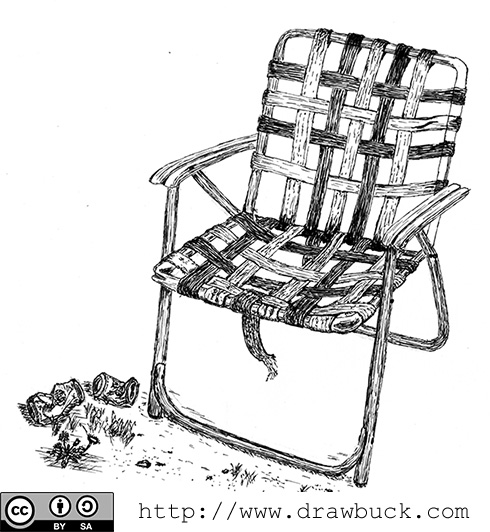
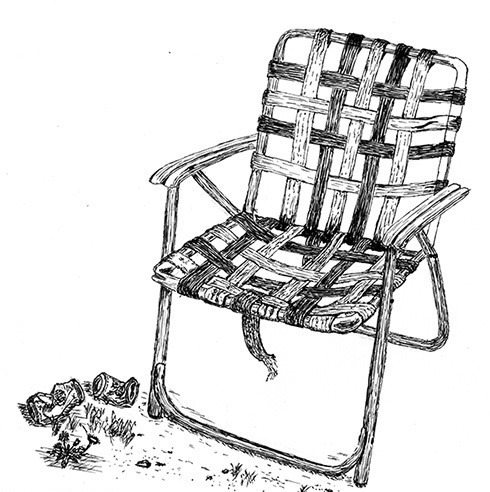
gisted up the examples

diff --git a/index.html b/index.html
@@ -4,7 +4,7 @@
 	<title>Lawnchair</title>
 	<style type="text/css" media="screen">
 		body {
-			background:url(lawn-chair.jpg) 375px 30px no-repeat;
+			background:url(lawn-chair.jpg) 375px 0px no-repeat;
 		}
 		h1, h2, p, ul {
 /*			background:#333;
@@ -15,7 +15,8 @@
 <body>
 
 <h1>Lawnchair</h1>
-<p>Sorta like a couch except smaller and outside. Also, a client side JSON document store.</p>
+<p>Sorta like a couch except smaller and outside. Also, a client side JSON document store. </p>
+<p>Perfect for a mobile web apps that need a lightweight, simple and elegent persistence solution. </p>
 
 <h2>Features</h2>
 <ul>
@@ -27,105 +28,52 @@
 	<li>searching and therefore finding of objects</li>
 </ul>
 
-<h3>Examples</h3>
+<h3>Example usage</h3>
 
-<p>In the spirit of showing rather than telling.</p>
+<p>Everything you need to know about:</p>
+
+<ul>
+	<li>Initializing</li>
+	<li>Savng</li>
+	<li>Retrieving</li>
+	<li>Removing</li>
+	<li>Iterating</li>
+</ul>
+<p></p>
 
 <h4>Initialize a store</h4>
 
 <p>Create a store. You can create as many as you like. If it doesn't exist Lawnchair creates a new store, otherwise, it just loads the store you name. It might be helpful to consider a store to be something akin to an array.</p>
 
-	var people = new Lawnchair('people');
+<script src="http://gist.github.com/240460.js?file=init.js"></script>	
 
 <h4>Saving JSON documents</h4>
 
 <p>Lawnchair stores JSON objects specifically. It assumes that each object has a property called <em>key</em>. Documents with a key that does not exist, or without a key, in the store are inserted into the store. Documents with a key that does exist in the store are simply updated. Lawnchair will generate a unique key for you if you don't supply one.</p>
 
-	// Saving a document
-	var me = {name:'brian'};
-	people.save(me);
-
-
-	// Saving a document async
-	people.save({name:'frank'}, function(r) {
-		console.log(r);
-	});
-
-
-	// Specifying your own key
-	people.save({key:'whatever', name:'dracula'});
+<script src="http://gist.github.com/240460.js?file=save.js"></script>
 
 
 <h4>Retrieving documents</h4>
 
 <p>Your new friend Lawnchair isn't going to block you. Anything that could potentially be time consuming will be asynchronous. The only problem with async style coding is typing the word <em>function</em> all the time. Lawnchair has a nice terse shorthand syntax for that too.</p>
 
-	// Get that document
-	people.get(me.key, function(r){
-		console.log(r);
-	});
-		
-
-	// Returns all documents as an array to a callback
-	people.all(function(r){
-		console.log(r);
-	});
-
-
-	// List all with shortcut syntax
-	people.all('console.log(r)');
+<script src="http://gist.github.com/240460.js?file=get.js"></script>
 
 <h4>Removing documents</h4>	
 
-	// Remove a document directly
-	people.get(me.key, function(r){
-		people.remove(me);
-	});
-
-	// Remove a document by key
-	people.save({key:'die', name:'duder'});
-	people.remove('die');
-	
-	// Destroy all documents
-	people.nuke();
+<script src="http://gist.github.com/240460.js?file=remove.js"></script>
 
 
-<h2>Iterators</h2>
+<h4>Iterators</h4>
 
-<p>Lawnchair knows you'll likely be iterating over those documents and even provides helpers for searching, thus finding, further augmented by that nice shorthand syntax introduced earlier.</p>
+<p>Lawnchair knows you'll likely be iterating over those documents and even provides helpers for searching and thus finding. This is further augmented by that nice shorthand syntax introduced earlier.</p>
 
-	// Classic iteration
-	people.each(function(r){
-		console.log(r);
-	});
-
-
-	// Classic with terse shorthand syntax
-	people.each('console.log(r)');
-	
-	
-	// Iterate documents conditionally! 
-	// The first function is a conditional. The second is a callback to execute on records returned by the first
-	people.find(
-		function(r) {
-			return r.name == brian;
-		},
-		function(r) {
-			console.log(r);
-		}
-	);
-
-	// Iterate conditionally via shorthand
-	people.find('r.name == "brian"', 'console.log(r)');
-
-	
-	// You can mix and match shorthand btw
-	people.find('r.name == "brian"', function(r){
-		console.log(r)
-	});
+<script src="http://gist.github.com/240460.js?file=iterate.js"></script>
 
 <p>
-	lawnchair image via http://www.drawbuck.com/?tag=old-lawn-chair
+ Lawnchair is MIT Licensed. Created by <a href="http://westcoastlogic.com">brianleroux</a>.	<a href="http://www.drawbuck.com/?tag=old-lawn-chair">Lawnchair image above is attributed to DrawBuck. </a>
 </p>
+
 </body>
 </html>
